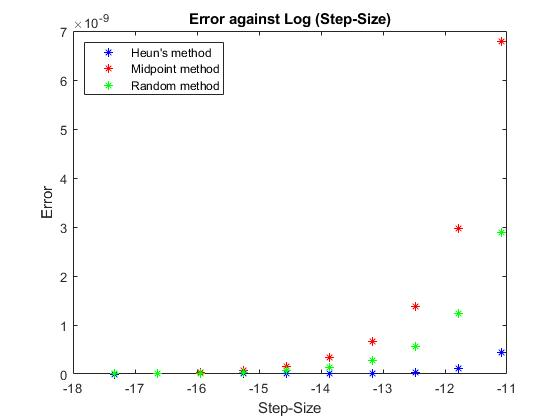
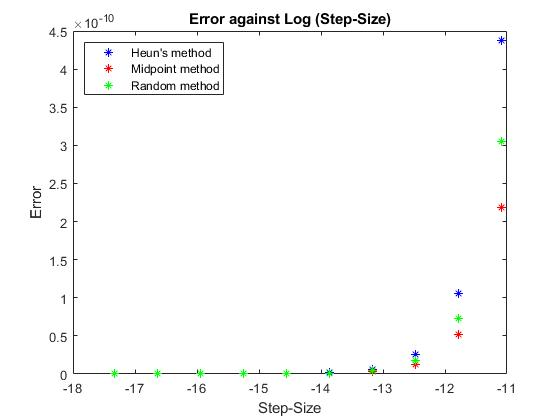
final ex2 matlab code

diff --git a/Exercise 2/Code/error_scrpit.m b/Exercise 2/Code/error_scrpit.m
@@ -1,44 +1,47 @@
 clear;
-R = 1000; %resistance.
-C = 100/1000000000; %capacitance.
-qc0 = 500/1000000000; %charge at t0.
+R = 1e3; %resistance.
+C = 100 * 1e-9; %capacitance.
+qc0 = 500 * 1e-9; %charge at t0.
 t0 = 0; %value of time when time is zero (obviously).
 h = 0.00001; %step size.
 tf = 0.001; %interval [0, 0.01].
 
-T = 100/1000000; %period of T (1/T = frequency). 2pi*frequency = rotationshstighet (angular frequency?).
-freq = 1/T; % frequency 
-w = 2 * pi * freq; %angular frequency
-% V = 5.0; %amplitude (voltage).
-V = 2.5;
-
 
 %****************Heun's Method****************
-%       a = 0.5;
+a = 0.5;
 %*********************************************
 
 %***************Midpoint Method***************
-%      a = 0.0;
+% a = 0.0;
 %*********************************************
 
 %*****************Random RK2******************
-     a = 0.3;
+% a = 0.3;
 %*********************************************
 
 
+%*****************Sinusoidal Input Signal******************
+V = 5.0; %amplitude (voltage).
+T = 100 * 1e-6; %period of T (1/T = frequency). 2pi*frequency = rotationshstighet (angular frequency?).
+freq = 1/T; % frequency 
+w = 2 * pi * freq; %angular frequency
+Vi = @(t) V * cos(w*t); %input cosine wave with given values.
+%**********************************************************
 
-% Vi = @(t) V * cos(w*t); %input cosine wave with given values.
-% Vi = @(t) V * heaviside(t); %input step signal
-tau = 1e-4;
-Vi = @(t) V * exp(-t/tau);
+%*****************Decay Input Signal******************
+% V = 2.5;
+% tau = 100 * 1e-6;
+% Vi = @(t) V * exp(-t/tau);
+%*****************************************************
 
 qcFunc = @(t, qc) ( Vi(t)/R ) - ( 1/(R*C) ) * qc; %we get the d/dt of qc (derivative).
 
 [tout, qout] = RK2(qcFunc, t0, qc0, h, a, tf); %Numerical method
 
-% qcExact = ( exp(-tout/(R*C)) .* ( C^2 * w^2 * R^2 + 2000000 * C^2 * w * R * V * exp(tout/(R*C)) .* sin(w*tout) + 2000000 * C * V * exp(tout/(R*C)) .* cos(w*tout) - 2000000 * C * V + 1 ) ) ./ (2000000 * (C^2 * w^2 * R^2 + 1));
-% qcExact = 2.5 * C * ( 1 + exp(-tout/(R*C)) ); %step signal exact solution
-qcExact = 2.5 * tout .* exp(-tout/(R*C)) / R + 5 * C * exp(-tout/(R*C)); %decay signal exact solution
+%*****************Exact Solutions of the 2 Input Signal******************
+qcExact = ( exp(-tout/(R*C)) .* ( C^2 * w^2 * R^2 + 2000000 * C^2 * w * R * V * exp(tout/(R*C)) .* sin(w*tout) + 2000000 * C * V * exp(tout/(R*C)) .* cos(w*tout) - 2000000 * C * V + 1 ) ) ./ (2000000 * (C^2 * w^2 * R^2 + 1));
+% qcExact = V * tout .* exp(-tout/(R*C)) / R + 2 * V * C * exp(-tout/(R*C));
+%************************************************************************
 
 error = qcExact - qout; % get the error between the numerical and the exact one.
 
@@ -49,18 +52,18 @@ hold on;
 plot(tout, error, 'g'); %now plot the error 
 ylabel("qc(t)");
 xlabel("t");
-% title("Heun's Method: Error Analysis");
+title("Heun's Method: Error Analysis");
 % title("Midpoint Method: Error Analysis");
-title("Random Method: Error Analysis");
+% title("Random Method: Error Analysis");
 legend("Numerical Solution", "Exact Solution", "Approximation Error");
 figure;
 
 plot(tout, error, 'g'); %now plot the error 
 ylabel("Error");
 xlabel("t");
-% title("Heun's Method: Error Analysis");
+title("Heun's Method: Error Analysis");
 % title("Midpoint Method: Error Analysis");
-title("Random Method: Error Analysis");
+% title("Random Method: Error Analysis");
 figure;
 
 
@@ -78,11 +81,14 @@ figure;
 for i = 16:25
     
     step = 2^(-i); %Trying different step sizes (h).
-    [etout, eqout] = RK2(qcFunc, t0, qc0, step, a, tf); %RK2 functions with different step size h. added extra e for fun and syntax.
-%     qcExact = ( exp(-etout/(R*C)) .* ( C^2 * w^2 * R^2 + 2000000 * C^2 * w * R * V * exp(etout/(R*C)) .* sin(w*etout) + 2000000 * C * V * exp(etout/(R*C)) .* cos(w*etout) - 2000000 * C * V + 1 ) ) ./ (2000000 * (C^2 * w^2 * R^2 + 1));
-%     qcExact = 2.5 * C * ( 1 + exp(-etout/(R*C)) ); %step signal exact solution
-    qcExact = 2.5 * etout .* exp(-etout/(R*C)) / R + 5 * C * exp(-etout/(R*C)); %decay signal exact solution
-    error = max(abs(qcExact - eqout)); %redefinition doesn't seem to bother matlab. Also had to call exact function again.
+    [etout, eqout] = RK2(qcFunc, t0, qc0, step, a, tf);
+    
+    %*****************Exact Solutions of the 2 Input Signal******************
+    qcExact = ( exp(-etout/(R*C)) .* ( C^2 * w^2 * R^2 + 2000000 * C^2 * w * R * V * exp(etout/(R*C)) .* sin(w*etout) + 2000000 * C * V * exp(etout/(R*C)) .* cos(w*etout) - 2000000 * C * V + 1 ) ) ./ (2000000 * (C^2 * w^2 * R^2 + 1));
+%     qcExact = V * etout .* exp(-etout/(R*C)) / R + 2 * V * C * exp(-etout/(R*C));
+    %************************************************************************
+
+    error = max(abs(qcExact - eqout));
     p1 = plot(log(step), log(error), 'b*'); % doesn't seem to make a big difference doing log-log vs plot log.
     hold on; %10 iterations of plotting
     
@@ -95,11 +101,14 @@ a = 0.0;
 for i = 16:25
 
     step = 2^(-i); %Trying different step sizes (h).
-    [etout, eqout] = RK2(qcFunc, t0, qc0, step, a, tf); %RK2 functions with different step size h. added extra e for fun and syntax.
-%     qcExact = ( exp(-etout/(R*C)) .* ( C^2 * w^2 * R^2 + 2000000 * C^2 * w * R * V * exp(etout/(R*C)) .* sin(w*etout) + 2000000 * C * V * exp(etout/(R*C)) .* cos(w*etout) - 2000000 * C * V + 1 ) ) ./ (2000000 * (C^2 * w^2 * R^2 + 1));
-%     qcExact = 2.5 * C * ( 1 + exp(-etout/(R*C)) ); %step signal exact solution
-    qcExact = 2.5 * etout .* exp(-etout/(R*C)) / R + 5 * C * exp(-etout/(R*C)); %decay signal exact solution
-    error = max(abs(qcExact - eqout)); %redefinition doesn't seem to bother matlab. Also had to call exact function again.
+    [etout, eqout] = RK2(qcFunc, t0, qc0, step, a, tf);
+    
+    %*****************Exact Solutions of the 2 Input Signal******************
+    qcExact = ( exp(-etout/(R*C)) .* ( C^2 * w^2 * R^2 + 2000000 * C^2 * w * R * V * exp(etout/(R*C)) .* sin(w*etout) + 2000000 * C * V * exp(etout/(R*C)) .* cos(w*etout) - 2000000 * C * V + 1 ) ) ./ (2000000 * (C^2 * w^2 * R^2 + 1));
+%     qcExact = V * etout .* exp(-etout/(R*C)) / R + 2 * V * C * exp(-etout/(R*C));
+    %************************************************************************
+
+    error = max(abs(qcExact - eqout));
     p2 = plot(log(step), log(error), 'r*'); % doesn't seem to make a big difference doing log-log vs plot log.
     hold on; %10 iterations of plotting
     
@@ -112,11 +121,14 @@ a = 0.3;
 for i = 16:25
 
     step = 2^(-i); %Trying different step sizes (h).
-    [etout, eqout] = RK2(qcFunc, t0, qc0, step, a, tf); %RK2 functions with different step size h. added extra e for fun and syntax.
-%     qcExact = ( exp(-etout/(R*C)) .* ( C^2 * w^2 * R^2 + 2000000 * C^2 * w * R * V * exp(etout/(R*C)) .* sin(w*etout) + 2000000 * C * V * exp(etout/(R*C)) .* cos(w*etout) - 2000000 * C * V + 1 ) ) ./ (2000000 * (C^2 * w^2 * R^2 + 1));
-%     qcExact = 2.5 * C * ( 1 + exp(-etout/(R*C)) ); %step signal exact solution
-    qcExact = 2.5 * etout .* exp(-etout/(R*C)) / R + 5 * C * exp(-etout/(R*C)); %decay signal exact solution
-    error = max(abs(qcExact - eqout)); %redefinition doesn't seem to bother matlab. Also had to call exact function again.
+    [etout, eqout] = RK2(qcFunc, t0, qc0, step, a, tf);
+    
+    %*****************Exact Solutions of the 2 Input Signal******************
+    qcExact = ( exp(-etout/(R*C)) .* ( C^2 * w^2 * R^2 + 2000000 * C^2 * w * R * V * exp(etout/(R*C)) .* sin(w*etout) + 2000000 * C * V * exp(etout/(R*C)) .* cos(w*etout) - 2000000 * C * V + 1 ) ) ./ (2000000 * (C^2 * w^2 * R^2 + 1));
+%     qcExact = V * etout .* exp(-etout/(R*C)) / R + 2 * V * C * exp(-etout/(R*C));
+    %************************************************************************
+
+    error = max(abs(qcExact - eqout));
     p3 = plot(log(step), log(error), 'g*'); % doesn't seem to make a big difference doing log-log vs plot log.
     hold on; %10 iterations of plotting
 
@@ -136,11 +148,14 @@ a = 0.5;
 for i = 16:25
 
     step = 2^(-i); %Trying different step sizes (h).
-    [etout, eqout] = RK2(qcFunc, t0, qc0, step, a, tf); %RK2 functions with different step size h. added extra e for fun and syntax.
-%     qcExact = ( exp(-etout/(R*C)) .* ( C^2 * w^2 * R^2 + 2000000 * C^2 * w * R * V * exp(etout/(R*C)) .* sin(w*etout) + 2000000 * C * V * exp(etout/(R*C)) .* cos(w*etout) - 2000000 * C * V + 1 ) ) ./ (2000000 * (C^2 * w^2 * R^2 + 1));
-%     qcExact = 2.5 * C * ( 1 + exp(-etout/(R*C)) ); %step signal exact solution
-    qcExact = 2.5 * etout .* exp(-etout/(R*C)) / R + 5 * C * exp(-etout/(R*C)); %decay signal exact solution
-    error = max(abs(qcExact - eqout)); %redefinition doesn't seem to bother matlab. Also had to call exact function again.
+    [etout, eqout] = RK2(qcFunc, t0, qc0, step, a, tf);
+    
+    %*****************Exact Solutions of the 2 Input Signal******************
+    qcExact = ( exp(-etout/(R*C)) .* ( C^2 * w^2 * R^2 + 2000000 * C^2 * w * R * V * exp(etout/(R*C)) .* sin(w*etout) + 2000000 * C * V * exp(etout/(R*C)) .* cos(w*etout) - 2000000 * C * V + 1 ) ) ./ (2000000 * (C^2 * w^2 * R^2 + 1));
+%     qcExact = V * etout .* exp(-etout/(R*C)) / R + 2 * V * C * exp(-etout/(R*C));
+    %************************************************************************
+
+    error = max(abs(qcExact - eqout));
     p4 = plot(log(step), error, 'b*');
     hold on;
 end
@@ -151,11 +166,14 @@ a = 0.0;
 for i = 16:25
 
     step = 2^(-i); %Trying different step sizes (h).
-    [etout, eqout] = RK2(qcFunc, t0, qc0, step, a, tf); %RK2 functions with different step size h. added extra e for fun and syntax.
-%     qcExact = ( exp(-etout/(R*C)) .* ( C^2 * w^2 * R^2 + 2000000 * C^2 * w * R * V * exp(etout/(R*C)) .* sin(w*etout) + 2000000 * C * V * exp(etout/(R*C)) .* cos(w*etout) - 2000000 * C * V + 1 ) ) ./ (2000000 * (C^2 * w^2 * R^2 + 1));
-%     qcExact = 2.5 * C * ( 1 + exp(-etout/(R*C)) ); %step signal exact solution
-    qcExact = 2.5 * etout .* exp(-etout/(R*C)) / R + 5 * C * exp(-etout/(R*C)); %decay signal exact solution
-    error = max(abs(qcExact - eqout)); %redefinition doesn't seem to bother matlab. Also had to call exact function again.
+    [etout, eqout] = RK2(qcFunc, t0, qc0, step, a, tf);
+    
+    %*****************Exact Solutions of the 2 Input Signal******************
+    qcExact = ( exp(-etout/(R*C)) .* ( C^2 * w^2 * R^2 + 2000000 * C^2 * w * R * V * exp(etout/(R*C)) .* sin(w*etout) + 2000000 * C * V * exp(etout/(R*C)) .* cos(w*etout) - 2000000 * C * V + 1 ) ) ./ (2000000 * (C^2 * w^2 * R^2 + 1));
+%     qcExact = V * etout .* exp(-etout/(R*C)) / R + 2 * V * C * exp(-etout/(R*C));
+    %************************************************************************
+
+    error = max(abs(qcExact - eqout));
     p5 = plot(log(step), error, 'r*');
     hold on;
 end
@@ -166,11 +184,14 @@ a = 0.3;
 for i = 16:25
 
     step = 2^(-i); %Trying different step sizes (h).
-    [etout, eqout] = RK2(qcFunc, t0, qc0, step, a, tf); %RK2 functions with different step size h. added extra e for fun and syntax.
-%     qcExact = ( exp(-etout/(R*C)) .* ( C^2 * w^2 * R^2 + 2000000 * C^2 * w * R * V * exp(etout/(R*C)) .* sin(w*etout) + 2000000 * C * V * exp(etout/(R*C)) .* cos(w*etout) - 2000000 * C * V + 1 ) ) ./ (2000000 * (C^2 * w^2 * R^2 + 1));
-%     qcExact = 2.5 * C * ( 1 + exp(-etout/(R*C)) ); %step signal exact solution
-    qcExact = 2.5 * etout .* exp(-etout/(R*C)) / R + 5 * C * exp(-etout/(R*C)); %decay signal exact solution
-    error = max(abs(qcExact - eqout)); %redefinition doesn't seem to bother matlab. Also had to call exact function again.
+    [etout, eqout] = RK2(qcFunc, t0, qc0, step, a, tf);
+    
+    %*****************Exact Solutions of the 2 Input Signal******************
+    qcExact = ( exp(-etout/(R*C)) .* ( C^2 * w^2 * R^2 + 2000000 * C^2 * w * R * V * exp(etout/(R*C)) .* sin(w*etout) + 2000000 * C * V * exp(etout/(R*C)) .* cos(w*etout) - 2000000 * C * V + 1 ) ) ./ (2000000 * (C^2 * w^2 * R^2 + 1));
+%     qcExact = V * etout .* exp(-etout/(R*C)) / R + 2 * V * C * exp(-etout/(R*C));
+    %************************************************************************
+
+    error = max(abs(qcExact - eqout));
     p6 = plot(log(step), error, 'g*');
     hold on;
 end

diff --git a/Exercise 2/Code/RK2.m b/Exercise 2/Code/RK2.m
@@ -1,6 +1,5 @@
 function[x, y] = RK2(func, x0, y0, h, a, xf)
     
-    a = a; % determining the constants the determines the RK method. all based on a.
     b = 1 - a; % determining the constants the determines the RK method. all based on a.
     p = 0.5/b; % determining the constants the determines the RK method. all based on a.
     q = 0.5/b; % determining the constants the determines the RK method. all based on a.
@@ -16,7 +15,7 @@ function[x, y] = RK2(func, x0, y0, h, a, xf)
     for i = 1:N-1 %iteration fun
         
         k1 = func(x(i), y(i)); %determine k1
-        k2 = func( x(i)+h, y(i) + k1*h ); %determine k2
+        k2 = func( x(i) + p*h, y(i) + q*k1*h ); %determine k2
         
         x(i+1) = x(i) + h; %next x is obviously previous x + the step distance (h).
         y(i+1) = y(i) + h * (a*k1 + b*k2); %RK definition.
